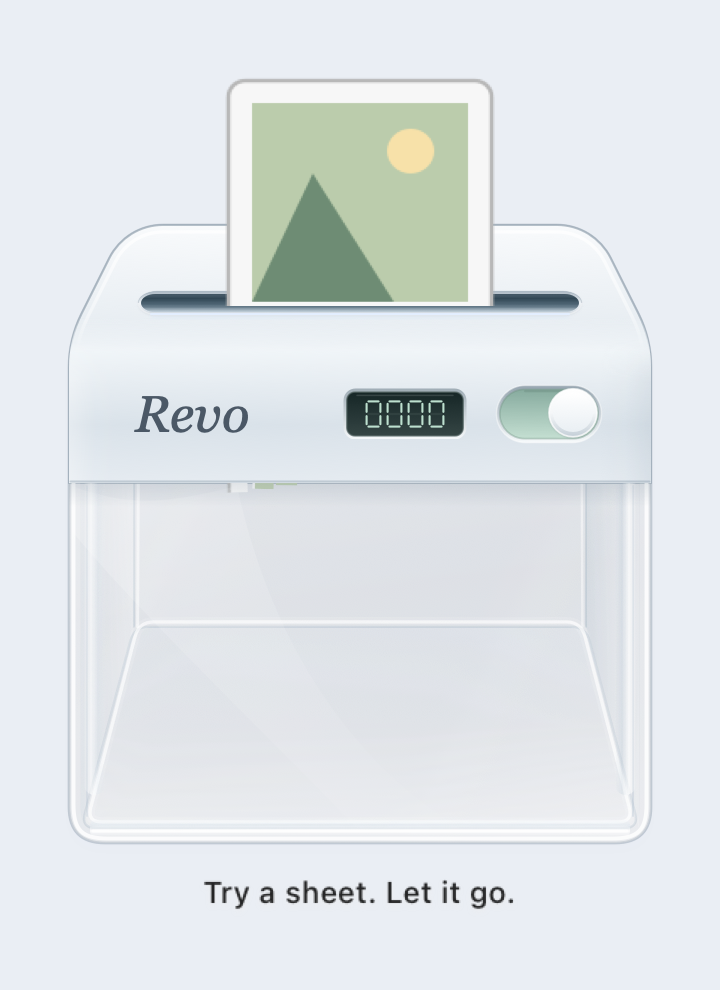
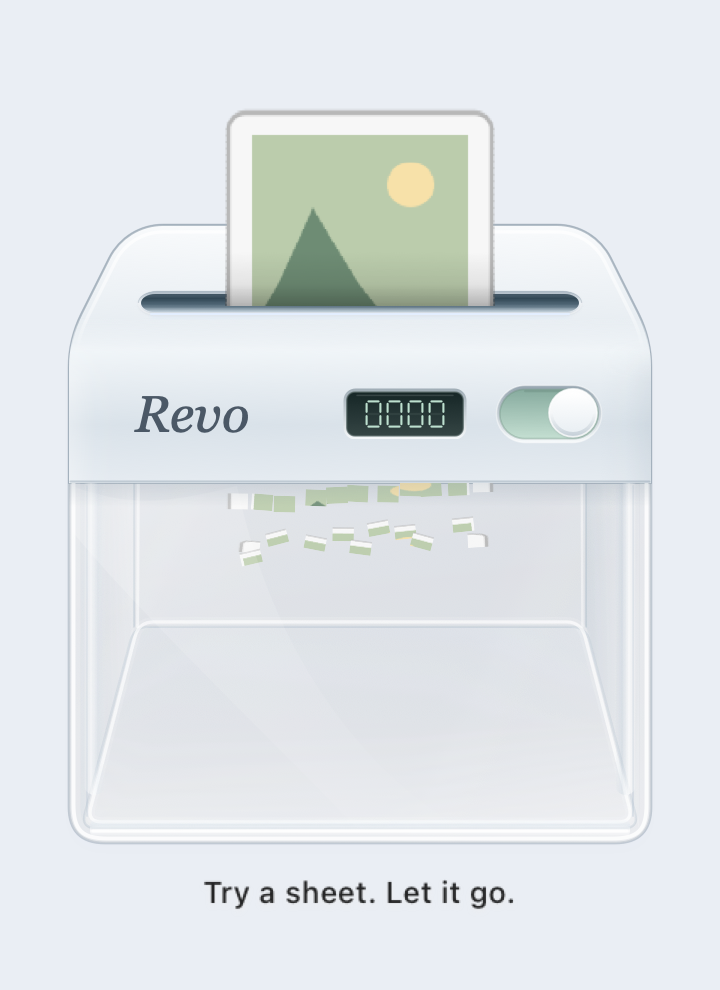
Add a tactile roller catch and slow curved paper feed

diff --git a/Sources/Revo/PaperFeed.swift b/Sources/Revo/PaperFeed.swift
@@ -1,0 +1,136 @@
+import AppKit
+import QuartzCore
+
+/// A short roller catch followed by a slow, continuous feed through a curved paper surface.
+enum PaperFeed {
+    struct Timing {
+        let approach: Double
+        let grip: Double
+        let pull: Double
+        let stagger: Double
+        var lead: Double { approach + grip }
+        var duration: Double { lead + pull }
+
+        init(style: ShredStyle, reducedMotion: Bool) {
+            approach = reducedMotion ? 0 : 0.30
+            grip = reducedMotion ? 0 : 0.17
+            pull = reducedMotion ? 0.22 : style == .heavy ? 2.7 : style == .folder ? 2.2 : 1.85
+            stagger = reducedMotion ? 0.04 : 0.22
+        }
+    }
+
+    static func sheet(image: CGImage, sourceX: CGFloat, targetX: CGFloat,
+                      index: Int, timing: Timing, reducedMotion: Bool) -> CALayer {
+        let width = MachineArtwork.paperWidth, height = MachineArtwork.paperHeight
+        let host = CALayer()
+        host.bounds = CGRect(x: 0, y: 0, width: 160, height: height + 12)
+        host.anchorPoint = CGPoint(x: 0.5, y: 0)
+        host.position = CGPoint(x: 80, y: 0)
+        host.masksToBounds = false
+        let start = CACurrentMediaTime() + Double(index) * timing.stagger
+        let samples = reducedMotion ? 2 : 100
+        let times = (0..<samples).map { Double($0) / Double(samples - 1) }
+        let bandCount = reducedMotion ? 1 : 44
+
+        func smooth(_ t: Double) -> Double { let u = max(0, min(1, t)); return u * u * (3 - 2 * u) }
+        func pose(_ time: Double) -> (bottom: CGFloat, x: CGFloat, roll: CGFloat, angle: CGFloat) {
+            if reducedMotion { return (-CGFloat(time / timing.pull) * (height + 4), targetX, 0, 0) }
+            if time < timing.approach {
+                let p = CGFloat(1 - pow(1 - time / timing.approach, 3))
+                return (10 - 8 * p, sourceX + (targetX - sourceX) * p, 0,
+                        (index == 1 ? 0.065 : -0.055) * (1 - p))
+            }
+            let caught = time - timing.approach
+            if caught < timing.grip {
+                let p = CGFloat(smooth(caught / 0.065))
+                // The rollers bite a few points, then hold briefly under tension.
+                return (2 - 5 * p, targetX, p, 0)
+            }
+            let pullTime = min(timing.pull, caught - timing.grip)
+            let ramp = 0.20
+            let distance = pullTime < ramp ? pullTime * pullTime / (2 * ramp) : pullTime - ramp / 2
+            let p = CGFloat(distance / (timing.pull - ramp / 2))
+            return (-3 - p * (height + 3), targetX, 1, 0)
+        }
+
+        func curved(_ y: CGFloat, roll: CGFloat) -> CGFloat {
+            guard y > 0 else { return y }
+            return y - 4.5 * roll * (y / 13) * exp(-y / 13)
+        }
+
+        for band in 0..<bandCount {
+            let bottom = CGFloat(band) * height / CGFloat(bandCount)
+            let top = CGFloat(band + 1) * height / CGFloat(bandCount)
+            let cropTop = CGFloat(image.height) * (1 - CGFloat(band + 1) / CGFloat(bandCount))
+            let cropBottom = CGFloat(image.height) * (1 - CGFloat(band) / CGFloat(bandCount))
+            // Image crops use top-origin pixels; sheet geometry uses bottom-origin points.
+            let crop = CGRect(x: 0, y: cropTop, width: CGFloat(image.width), height: cropBottom - cropTop)
+            guard let texture = image.cropping(to: crop) else { continue }
+            let strip = CALayer()
+            strip.contents = texture
+            strip.contentsGravity = .resize
+            strip.allowsEdgeAntialiasing = false
+            var positions: [NSValue] = [], sizes: [NSValue] = []
+            for fraction in times {
+                let p = pose(fraction * timing.duration)
+                let lower = curved(bottom + p.bottom, roll: p.roll)
+                let upper = curved(top + p.bottom, roll: p.roll)
+                let middle = (lower + upper) / 2
+                positions.append(NSValue(point: CGPoint(x: p.x, y: middle)))
+                sizes.append(NSValue(rect: CGRect(x: 0, y: 0, width: width, height: upper - lower + 0.8)))
+            }
+            strip.position = positions.last!.pointValue
+            strip.bounds = sizes.last!.rectValue
+            host.addSublayer(strip)
+            func track(_ key: String, _ values: [Any]) -> CAKeyframeAnimation {
+                let animation = CAKeyframeAnimation(keyPath: key)
+                animation.values = values
+                animation.keyTimes = times.map { NSNumber(value: $0) }
+                animation.calculationMode = .linear
+                return animation
+            }
+            let group = CAAnimationGroup()
+            group.animations = [track("position", positions), track("bounds", sizes)]
+            group.duration = timing.duration
+            group.beginTime = start
+            group.fillMode = .backwards
+            strip.add(group, forKey: "rollerFeed")
+        }
+        if !reducedMotion {
+            // One continuous reflection avoids visible seams between warped texture bands.
+            let contact = CAGradientLayer()
+            contact.frame = CGRect(x: 0, y: 0, width: 160, height: 18)
+            contact.colors = [NSColor(white: 0, alpha: 0.28).cgColor,
+                              NSColor(white: 0, alpha: 0.08).cgColor, NSColor.clear.cgColor]
+            contact.locations = [0, 0.4, 1]
+            contact.startPoint = CGPoint(x: 0.5, y: 0); contact.endPoint = CGPoint(x: 0.5, y: 1)
+            let mask = CAShapeLayer()
+            let paths = times.map { fraction -> CGPath in
+                let p = pose(fraction * timing.duration)
+                let bottom = curved(p.bottom, roll: p.roll)
+                let top = curved(p.bottom + height, roll: p.roll)
+                return CGPath(roundedRect: CGRect(x: p.x - width / 2, y: bottom, width: width, height: top - bottom),
+                              cornerWidth: 5.5, cornerHeight: 5.5, transform: nil)
+            }
+            mask.path = paths.last
+            let clipping = CAKeyframeAnimation(keyPath: "path")
+            clipping.values = paths; clipping.keyTimes = times.map { NSNumber(value: $0) }
+            clipping.duration = timing.duration; clipping.beginTime = start; clipping.fillMode = .backwards
+            mask.add(clipping, forKey: "paperMask")
+            contact.mask = mask
+            contact.opacity = 0
+            let tension = CAKeyframeAnimation(keyPath: "opacity")
+            tension.values = times.map { NSNumber(value: Double(pose($0 * timing.duration).roll)) }
+            tension.keyTimes = times.map { NSNumber(value: $0) }
+            tension.duration = timing.duration; tension.beginTime = start; tension.fillMode = .backwards
+            contact.add(tension, forKey: "contactShadow")
+            host.addSublayer(contact)
+        }
+        let alignment = CAKeyframeAnimation(keyPath: "transform.rotation.z")
+        alignment.values = times.map { NSNumber(value: Double(pose($0 * timing.duration).angle)) }
+        alignment.keyTimes = times.map { NSNumber(value: $0) }
+        alignment.duration = timing.duration; alignment.beginTime = start; alignment.fillMode = .backwards
+        host.add(alignment, forKey: "alignToRoller")
+        return host
+    }
+}

diff --git a/Sources/Revo/RevoView.swift b/Sources/Revo/RevoView.swift
@@ -359,37 +359,34 @@ final class RevoView: NSView {
 
     private func animate(_ job: Job, image: CGImage?) {
         guard let image else { finish(job); return }
-        let duration: Double = reducedMotion ? 0.18 : job.style == .heavy ? 1.7 : job.style == .folder ? 1.35 : 1.05
-        let approach = reducedMotion ? 0 : 0.28
+        let timing = PaperFeed.Timing(style: job.style, reducedMotion: reducedMotion)
         let count = job.style == .folder ? 3 : 1
-        for i in 0..<count {
-            let sheet = CALayer(); sheet.contents = image
-            sheet.bounds = CGRect(x: 0, y: 0, width: MachineArtwork.paperWidth, height: MachineArtwork.paperHeight)
-            let dx = CGFloat(i) * 4
-            let halfHeight = MachineArtwork.paperHeight / 2
-            let start = CGPoint(x: 80 + dx, y: halfHeight + 1 + CGFloat(i) * 2)
-            let end = CGPoint(x: 80 + dx, y: -halfHeight - 2)
-            sheet.position = end; feeder.addSublayer(sheet)
-            let position = CAKeyframeAnimation(keyPath: "position")
+        for index in 0..<count {
+            let dx = CGFloat(index) * 3
             let margin = MachineArtwork.paperWidth / 2 + 4
             let sourceX = max(margin, min(feeder.bounds.width - margin - dx, job.point.x - feeder.frame.minX))
-            position.values = [NSValue(point: CGPoint(x: sourceX + dx, y: halfHeight + 1 + CGFloat(i) * 2)), NSValue(point: start), NSValue(point: end)]
-            position.keyTimes = [0, NSNumber(value: approach / (duration + approach)), 1]
-            position.timingFunctions = [CAMediaTimingFunction(controlPoints: 0.2, 0.8, 0.2, 1), CAMediaTimingFunction(name: .linear)]
-            position.duration = duration + approach; position.beginTime = CACurrentMediaTime() + Double(i) * 0.15
-            position.fillMode = .backwards; sheet.add(position, forKey: "feed")
-            let rotate = CABasicAnimation(keyPath: "transform.rotation.z"); rotate.fromValue = i == 1 ? 0.08 : -0.055; rotate.toValue = 0; rotate.duration = max(0.01, approach)
-            sheet.add(rotate, forKey: "align")
-            DispatchQueue.main.asyncAfter(deadline: .now() + duration + approach + Double(i) * 0.15) { sheet.removeFromSuperlayer() }
+            let sheet = PaperFeed.sheet(image: image, sourceX: sourceX + dx, targetX: 80 + dx,
+                                         index: index, timing: timing, reducedMotion: reducedMotion)
+            feeder.addSublayer(sheet)
+            DispatchQueue.main.asyncAfter(deadline: .now() + timing.duration + Double(index) * timing.stagger) {
+                sheet.removeFromSuperlayer()
+            }
         }
         if !reducedMotion {
-            let vibration = CAKeyframeAnimation(keyPath: "transform.translation.x")
-            vibration.values = [0, 0.35, -0.35, 0.2, 0]; vibration.duration = 0.16; vibration.repeatCount = .infinity
-            machine.add(vibration, forKey: "motor")
-            play(.motor, volume: 0.16)
+            DispatchQueue.main.asyncAfter(deadline: .now() + timing.approach) { [weak self] in
+                self?.play(.grip, volume: 0.24)
+            }
+            DispatchQueue.main.asyncAfter(deadline: .now() + timing.lead) { [weak self] in
+                guard let self else { return }
+                let vibration = CAKeyframeAnimation(keyPath: "transform.translation.x")
+                vibration.values = [0, 0.18, -0.18, 0.1, 0]; vibration.duration = 0.18; vibration.repeatCount = .infinity
+                self.machine.add(vibration, forKey: "motor")
+                self.play(.motor, volume: 0.14)
+            }
         }
-        emit(image, style: job.style, duration: duration, delay: approach + 0.17)
-        DispatchQueue.main.asyncAfter(deadline: .now() + duration + approach + 0.55) { [weak self] in self?.finish(job) }
+        emit(image, style: job.style, duration: timing.pull, delay: timing.lead + 0.12)
+        let stackDelay = Double(count - 1) * timing.stagger
+        DispatchQueue.main.asyncAfter(deadline: .now() + timing.duration + stackDelay + 0.6) { [weak self] in self?.finish(job) }
     }
 
     private func emit(_ image: CGImage, style: ShredStyle, duration: Double, delay: Double) {

diff --git a/Sources/Revo/SoundSynth.swift b/Sources/Revo/SoundSynth.swift
@@ -22,6 +22,22 @@ enum SoundSynth {
         return wav(samples)
     }
 
+    /// A soft rubber-roller bite with a brief paper friction transient.
+    static func gripData() -> Data {
+        let duration = 0.19
+        let n = Int(Double(sampleRate) * duration)
+        var samples = [Int16](repeating: 0, count: n)
+        var noise = 0.0
+        for i in 0..<n {
+            let t = Double(i) / Double(sampleRate)
+            noise = noise * 0.7 + Double.random(in: -1...1) * 0.3
+            let envelope = min(1, t / 0.008) * exp(-t * 23)
+            let roller = sin(2 * .pi * (115 * t + 160 * t * t)) * 0.28
+            samples[i] = Int16(max(-1, min(1, (noise * 0.8 + roller) * envelope)) * 32767)
+        }
+        return wav(samples)
+    }
+
     /// A short motor startup with a rising pitch.
     static func wakeData() -> Data {
         let duration = 0.35
@@ -39,7 +55,7 @@ enum SoundSynth {
 
     /// Low motor rumble with filtered noise pulsing at 13 Hz.
     static func shredData() -> Data {
-        let duration = 1.5
+        let duration = 3.3
         let n = Int(Double(sampleRate) * duration)
         var samples = [Int16](repeating: 0, count: n)
         var lastNoise = 0.0

diff --git a/Sources/Revo/SoundPlayer.swift b/Sources/Revo/SoundPlayer.swift
@@ -2,7 +2,7 @@ import AVFoundation
 
 /// Prepare and play audio away from the main thread so the first sheet never stalls.
 final class SoundPlayer {
-    enum Effect: CaseIterable { case motor, finish, switchOn, switchOff }
+    enum Effect: CaseIterable { case motor, finish, switchOn, switchOff, grip }
     private let queue = DispatchQueue(label: "com.revo.audio", qos: .userInitiated)
     private var players: [Effect: AVAudioPlayer] = [:]
     private var paperPlayer: AVAudioPlayer?
@@ -13,6 +13,7 @@ final class SoundPlayer {
             for effect in Effect.allCases {
                 let data: Data
                 switch effect {
+                case .grip: data = SoundSynth.gripData()
                 case .motor: data = SoundSynth.shredData()
                 case .finish: data = SoundSynth.thudData()
                 case .switchOn: data = SoundSynth.switchData(powerOn: true)

diff --git a/Sources/Revo/Preview.swift b/Sources/Revo/Preview.swift
@@ -32,7 +32,8 @@ enum Preview {
         }
         DispatchQueue.main.asyncAfter(deadline: .now() + 0.3) { capture("idle"); view.setPower(true) }
         DispatchQueue.main.asyncAfter(deadline: .now() + 0.65) { capture("on"); view.demo(.photo) }
-        DispatchQueue.main.asyncAfter(deadline: .now() + 1.12) { capture("feeding") }
-        DispatchQueue.main.asyncAfter(deadline: .now() + 2.9) { capture("finished"); NSApp.terminate(nil) }
+        DispatchQueue.main.asyncAfter(deadline: .now() + 1.05) { capture("gripping") }
+        DispatchQueue.main.asyncAfter(deadline: .now() + 1.65) { capture("feeding") }
+        DispatchQueue.main.asyncAfter(deadline: .now() + 3.9) { capture("finished"); NSApp.terminate(nil) }
     }
 }

diff --git a/README.md b/README.md
@@ -3,13 +3,14 @@
 A tiny native macOS desktop companion that turns letting go of files into a small, tactile ritual. Turn Revo on, drop a file into the slot, and watch it become paper scraps. The real file moves to macOS Trash and remains recoverable.
 
 <p align="center">
-  <img src="docs/images/idle.png" alt="Revo powered off with its inlet shutter closed" width="280">
-  <img src="docs/images/feeding.png" alt="Revo powered on, feeding a photo into its clear glass body" width="280">
+  <img src="docs/images/idle.png" alt="Revo powered off with its inlet shutter closed" width="220">
+  <img src="docs/images/gripping.png" alt="A photo caught by the rollers at the inlet" width="220">
+  <img src="docs/images/feeding.png" alt="Revo slowly feeding a photo into its clear glass body" width="220">
 </p>
 
 ## The little machine
 
-A solid silver head, clear glass enclosure, layered edge reflections, and a compact tactile power switch. Its raised silver thumb slides into a soft mint-green track when on and returns to silver-gray when off. A recessed seven-segment display beside it shows the number of files successfully recycled today, including across app launches. Undo reduces the count; demos and failed operations never increase it. A gently elevated viewpoint reveals the receding top plane and a continuous metal front face. The metal head has softly rolled shoulders and a continuous front face above a taller glass enclosure. Larger file previews align with the inlet before feeding into the glass enclosure. The entire head, including its bevels and end caps, is opaque aluminum. The lower enclosure combines subtle native desktop diffusion with a clear center, curved reflections, and a thick liquid-glass rim. Its side walls and floor recede toward the same vanishing point as the metal top, and paper scraps settle across that floor. Reduce Transparency replaces the glass with a solid native backdrop. The capsule inlet uses a narrow upper shadow, blue-gray interior gradient, and a soft silver reflection along the lower lip. The metal inlet and glass highlights are drawn in code with AppKit. Core Animation handles the paper feed, cutting, falling scraps, and subtle mechanical feedback. The only branding is Revo, set in Georgia Italic. The compact desktop panel measures 216 × 297 points.
+A solid silver head, clear glass enclosure, layered edge reflections, and a compact tactile power switch. Its raised silver thumb slides into a soft mint-green track when on and returns to silver-gray when off. A recessed seven-segment display beside it shows the number of files successfully recycled today, including across app launches. Undo reduces the count; demos and failed operations never increase it. A gently elevated viewpoint reveals the receding top plane and a continuous metal front face. The metal head has softly rolled shoulders and a continuous front face above a taller glass enclosure. Larger file previews ease toward the inlet, catch briefly in the rollers, then feed in slowly at a steady pace. A curved, segmented paper surface compresses and darkens near the opening to give the bite depth. The roller catch and motor sounds follow those phases; heavier files and folder stacks feed more slowly. The entire head, including its bevels and end caps, is opaque aluminum. The lower enclosure combines subtle native desktop diffusion with a clear center, curved reflections, and a thick liquid-glass rim. Its side walls and floor recede toward the same vanishing point as the metal top, and paper scraps settle across that floor. Reduce Transparency replaces the glass with a solid native backdrop. The capsule inlet uses a narrow upper shadow, blue-gray interior gradient, and a soft silver reflection along the lower lip. The metal inlet and glass highlights are drawn in code with AppKit. Core Animation handles the paper feed, cutting, falling scraps, and subtle mechanical feedback. The only branding is Revo, set in Georgia Italic. The compact desktop panel measures 216 × 297 points.
 
 - Documents become narrow paper strips.
 - Photos use a thumbnail and break into confetti.
@@ -74,7 +75,7 @@ swift build -c release --product Revo
 
 The self-test compares gentle and strong shakes, verifies fragment bounds and eventual settling, then creates disposable temporary fixtures and checks the default-off interlock, rejected file drops, cancellation of waiting jobs, file classification, recycling, restoration, same-name conflict protection, and failure for a missing source file. It never uses existing user files.
 
-Preview mode renders off, on, feeding, and finished screenshots using demo sheets. It does not recycle any files.
+Preview mode renders off, on, roller-catch, feeding, and finished screenshots using demo sheets. It does not recycle any files.
 
 ## Inside the app
 
@@ -85,6 +86,7 @@ Preview mode renders off, on, feeding, and finished screenshots using demo sheet
 | `RevoView.swift` | Drag and drop, animation queue, menus, and feedback |
 | `MachineArtwork.swift` | Translucent enclosure, metal inlet, and shutter |
 | `GlassBackdrop.swift` | Native diffusion inside the lower glass and accessibility fallback |
+| `PaperFeed.swift` | Roller catch, curved paper surface, and slow feed timing |
 | `PaperMotion.swift` | Bounded fragment inertia, bounce, and damping |
 | `PowerSwitch.swift` | Tactile switch artwork, native button tracking, and accessible power control |
 | `PowerQueue.swift` | Default-off interlock and waiting-job cancellation |
